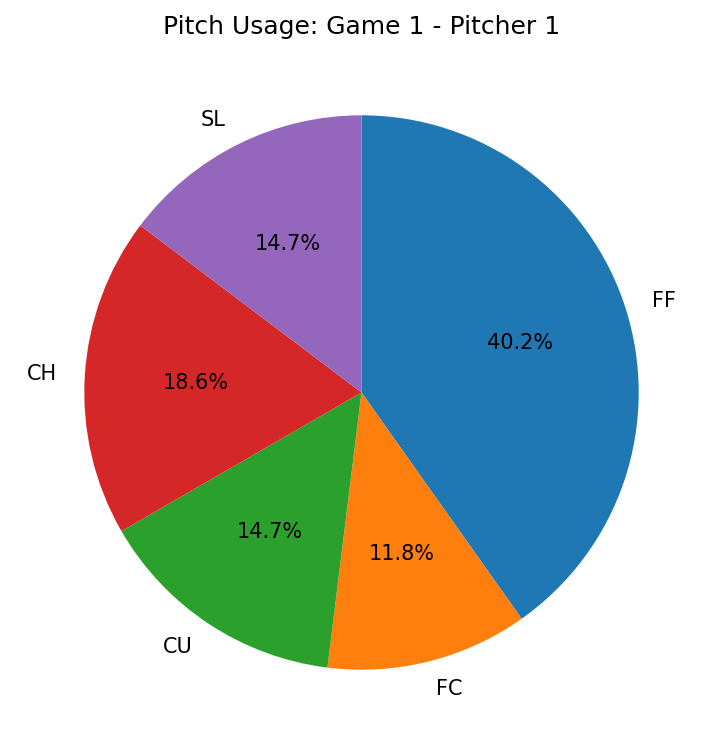
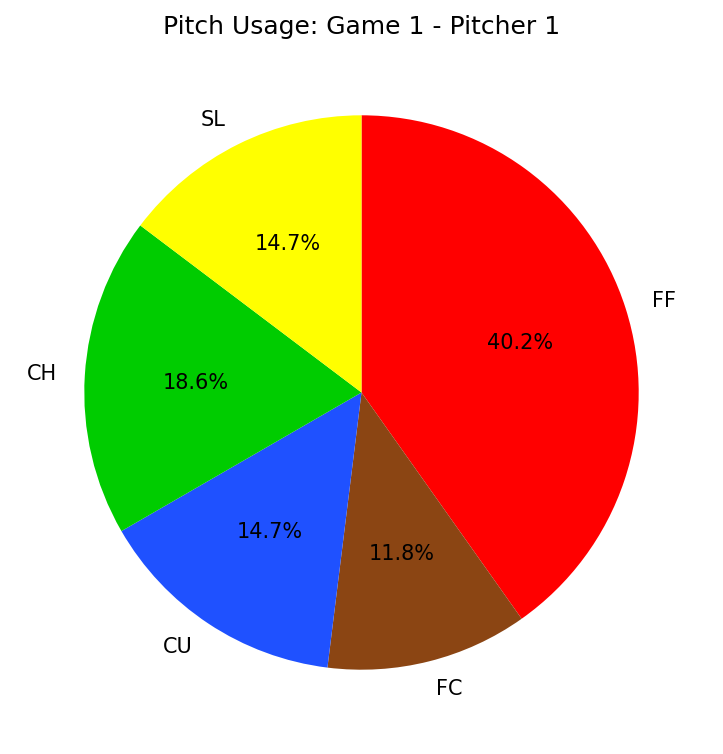
PieChart

diff --git a/PItchUsagePieCreator.py b/PItchUsagePieCreator.py
@@ -42,6 +42,7 @@ def create_pie_charts(pitch_usage):
     plt.pie(
         sizes,
         labels = labels,
+        colors = colors,
         autopct='%1.1f%%',
         startangle=90,
         counterclock=False
